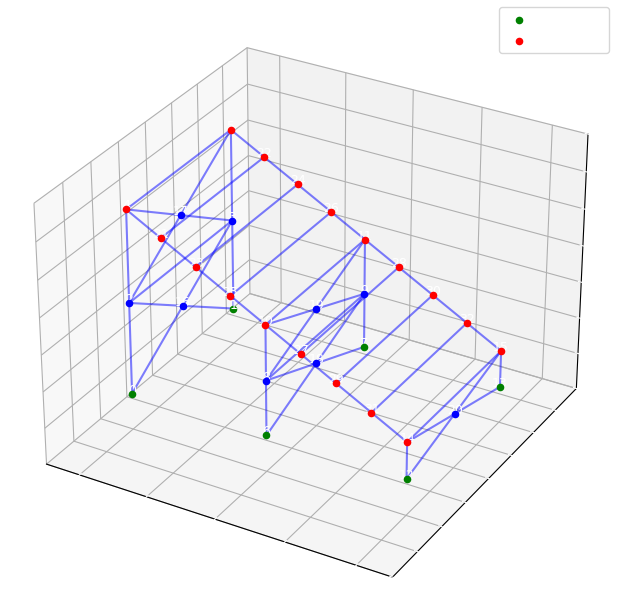
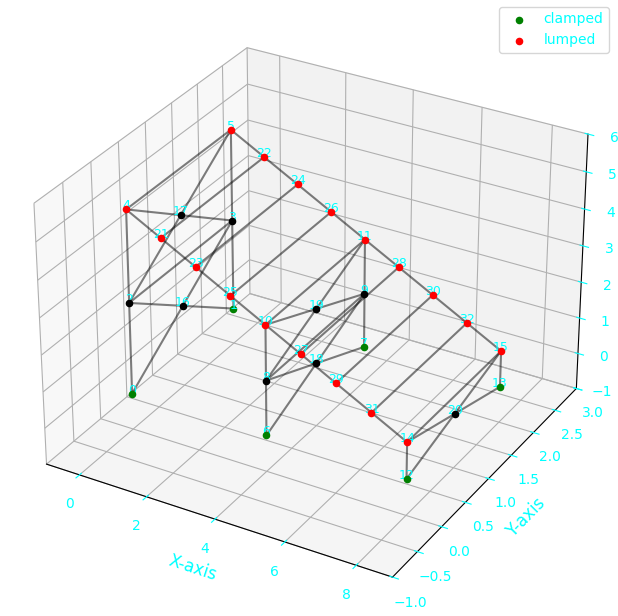
oo

diff --git a/part1/Tools_part1.py b/part1/Tools_part1.py
@@ -49,10 +49,10 @@ def display(fig, ax, nodes_list, elems_list, geom_data, save, github):
             else:
                 ax.scatter(node.pos[0], node.pos[1], node.pos[2], c="red", s=20, depthshade=True)
         else:
-            ax.scatter(node.pos[0], node.pos[1], node.pos[2], c="blue", s=20, depthshade=True)
+            ax.scatter(node.pos[0], node.pos[1], node.pos[2], c="black", s=20, depthshade=True)
 
     # Annotate nodes with their index
-    text_color = 'white' if github else 'black'
+    text_color = 'cyan' if github else 'black'
     for i, (x_val, y_val, z_val) in enumerate(zip(x_node, y_node, z_node)):
         ax.text(x_val, y_val, z_val, f'{i}', fontsize=9, ha='center', color=text_color)
 
@@ -63,10 +63,10 @@ def display(fig, ax, nodes_list, elems_list, geom_data, save, github):
         x = [nodes_list[idx_in].pos[0], nodes_list[idx_out].pos[0]]
         y = [nodes_list[idx_in].pos[1], nodes_list[idx_out].pos[1]]
         z = [nodes_list[idx_in].pos[2], nodes_list[idx_out].pos[2]]
-        ax.plot(x, y, z, color="blue", linewidth=1.5, alpha=0.5)
+        ax.plot(x, y, z, color="black", linewidth=1.5, alpha=0.5)
 
     # Set plot labels and adjust for GitHub if needed
-    label_color = 'white' if github else 'black'
+    label_color = 'cyan' if github else 'black'
     ax.set_xlabel("X-axis", fontsize=12, color=label_color)
     ax.set_ylabel("Y-axis", fontsize=12, color=label_color)
     ax.set_zlabel("Z-axis", fontsize=12, color=label_color)
@@ -86,14 +86,14 @@ def display(fig, ax, nodes_list, elems_list, geom_data, save, github):
 
     # Adjust tick colors for GitHub
     if github:
-        ax.tick_params(axis='x', colors='white')
-        ax.tick_params(axis='y', colors='white')
-        ax.tick_params(axis='z', colors='white')
+        ax.tick_params(axis='x', colors='cyan')
+        ax.tick_params(axis='y', colors='cyan')
+        ax.tick_params(axis='z', colors='cyan')
         
-        # Change legend text color to white
+        # Change legend text color to cyan
         legend = ax.get_legend()
         for text in legend.get_texts():
-            text.set_color("white")
+            text.set_color("cyan")
 
     if save:
         if github:
@@ -155,19 +155,19 @@ def plotModes(fig, ax, nodes_list, displacements, elems_list, nodes_clamped, sav
     # Adjust grid
     ax.grid(color='gray', linestyle='--', linewidth=0.5, alpha=0.5)
     
-    # Set labels, ticks, and colorbar to white only if github is True
+    # Set labels, ticks, and colorbar to cyan only if github is True
     if github:
-        ax.set_xlabel('X [m]', color='white')
-        ax.set_ylabel('Y [m]', color='white')
-        ax.set_zlabel('Z [m]', color='white')
-        ax.tick_params(axis='x', colors='white')
-        ax.tick_params(axis='y', colors='white')
-        ax.tick_params(axis='z', colors='white')
+        ax.set_xlabel('X [m]', color='cyan')
+        ax.set_ylabel('Y [m]', color='cyan')
+        ax.set_zlabel('Z [m]', color='cyan')
+        ax.tick_params(axis='x', colors='cyan')
+        ax.tick_params(axis='y', colors='cyan')
+        ax.tick_params(axis='z', colors='cyan')
         
-        cbar.ax.yaxis.set_tick_params(color='white')
-        cbar.outline.set_edgecolor('white')
-        plt.setp(plt.getp(cbar.ax.axes, 'yticklabels'), color='white')
-        cbar.set_label('Displacement [m]', color='white')
+        cbar.ax.yaxis.set_tick_params(color='cyan')
+        cbar.outline.set_edgecolor('cyan')
+        plt.setp(plt.getp(cbar.ax.axes, 'yticklabels'), color='cyan')
+        cbar.set_label('Displacement [m]', color='cyan')
     else:
         ax.set_xlabel('X [m]')
         ax.set_ylabel('Y [m]')

diff --git a/part1/FEM.py b/part1/FEM.py
@@ -395,6 +395,62 @@ def createElements(nodes_pairs, nodes_list, geom_data, phys_data):
 
     return elems
 
+def convergence(geom_data, phys_data, max_nb_elem, plot, github):
+    elem_per_beam_list = np.arange(1, max_nb_elem+1, 1)
+    eigen_freq_matrix = []
+
+    for elem_per_beam in elem_per_beam_list:
+        # Define initial geometry
+        nodes_list_init, nodes_pairs_init = initializeGeometry(geom_data, phys_data)
+
+        # Add nodes if needed
+        nodes_list, nodes_pairs = addMoreNodes(nodes_list_init, nodes_pairs_init, elem_per_beam-1)
+        elems_list = createElements(nodes_pairs, nodes_list, geom_data, phys_data)
+        
+        solver = Solver()
+        solver.assembly(elems_list, nodes_list, geom_data["nodes_clamped"])
+        solver.addLumpedMass(nodes_list, geom_data["nodes_lumped"])
+        solver.removeClampedNodes(nodes_list, geom_data["nodes_clamped"])
+        
+        eigen_vals, eigen_vectors = solver.solve()
+        eigen_freq_matrix.append(eigen_vals)
+
+    eigen_freq_matrix = np.array(eigen_freq_matrix)
+    
+    relative_errors = np.zeros((len(elem_per_beam_list)-1, eigen_freq_matrix.shape[1]))
+
+    for i in range(len(elem_per_beam_list)-1):
+        relative_errors[i] = abs((eigen_freq_matrix[i+1] - eigen_freq_matrix[i]) / eigen_freq_matrix[i] * 100)
+
+    plt.figure(figsize=(10, 8))
+
+    for i in range(relative_errors.shape[1]):
+        plt.plot(elem_per_beam_list[1:], relative_errors[:, i], marker='o', label=f'Mode {i+1}')
+
+    plt.xlabel('Number of elements per beam [-]', color='cyan' if github else 'black')
+    plt.ylabel('Relative error [%]', color='cyan' if github else 'black')
+    plt.legend()
+    plt.grid(True, color='gray', linestyle='--', linewidth=0.5, alpha=0.5)
+
+    if github:
+        plt.gca().set_facecolor('none')
+        plt.gcf().patch.set_alpha(0)
+        plt.tick_params(axis='x', colors='cyan')
+        plt.tick_params(axis='y', colors='cyan')
+        
+        # Change legend text color to cyan
+        legend = plt.gca().get_legend()
+        for text in legend.get_texts():
+            text.set_color("cyan")
+
+    if plot:
+        if github:
+            plt.savefig('part1/Pictures/convergence_part1.png', transparent=True, bbox_inches='tight', pad_inches=0)
+        else:
+            plt.savefig('part1/Pictures/convergence_part1.PDF')
+        
+        plt.show()
+   
 
 
 

diff --git a/part1/main_part1.py b/part1/main_part1.py
@@ -7,7 +7,6 @@ pi = np.pi
 from FEM import *
 from Tools_part1 import *
 from set_parameters import *
-from convergence_part1 import *
 
 def main():
 
@@ -15,7 +14,7 @@ def main():
     activation = {"print":True, "plot":True}
 
     geom_data, phys_data = setParams()
-    elem_per_beam = 1
+    elem_per_beam = 10
 
     # Define initial geometry
     nodes_list_init, nodes_pairs_init = initializeGeometry(geom_data, phys_data)
@@ -38,7 +37,7 @@ def main():
     ax = fig.add_subplot(projection='3d')
     #display(fig, ax, nodes_list, elems_list, geom_data, save=True, github=True)
     #plotModes(fig, ax, nodes_list, eigen_vectors[:,1], elems_list, geom_data["nodes_clamped"], save=True, github=True)
-    plt.show()
+    #plt.show()
 
     convergence(geom_data, phys_data, max_nb_elem=8, plot=True, github=True)
 

diff --git a/README.md b/README.md
@@ -8,9 +8,11 @@
 4. [Finite Element Code](#finite-element-code)
 5. [Transient Response Analysis](#transient-response-analysis)
 6. [Model Reduction Methods](#model-reduction-methods)
+7. [Acknowledgements](#Acknowledgements)
+
 
 ## Synopsis
-In the framework of the Uliege course [MECA0029-1][https://www.programmes.uliege.be/cocoon/20242025/en/cours/MECA0029-1.html], it has been asked to implements a comprehensive Finite Element Analysis (FEM) of three-dimensional structures using Python. It provides a robust framework for modeling, analyzing, and simulating complex structural systems.
+In the framework of the Uliege course [MECA0029-1](https://www.programmes.uliege.be/cocoon/20242025/en/cours/MECA0029-1.html), it has been asked to implements a comprehensive Finite Element Analysis (FEM) of three-dimensional structures using Python. It provides a robust framework for modeling, analyzing, and simulating complex structural systems.
 
 ## Key Features
 
